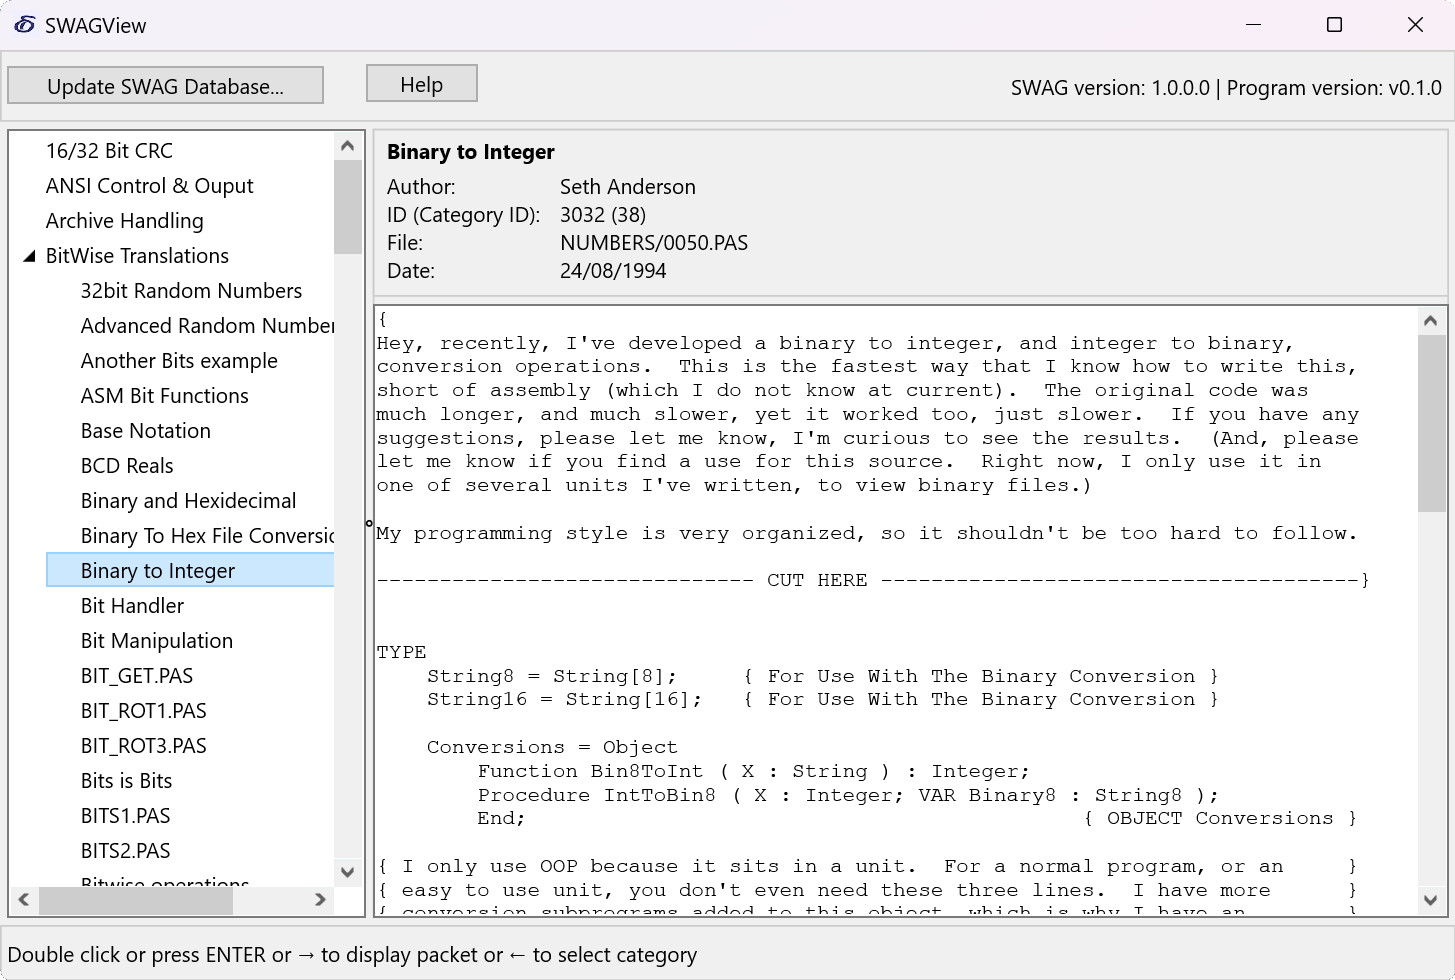
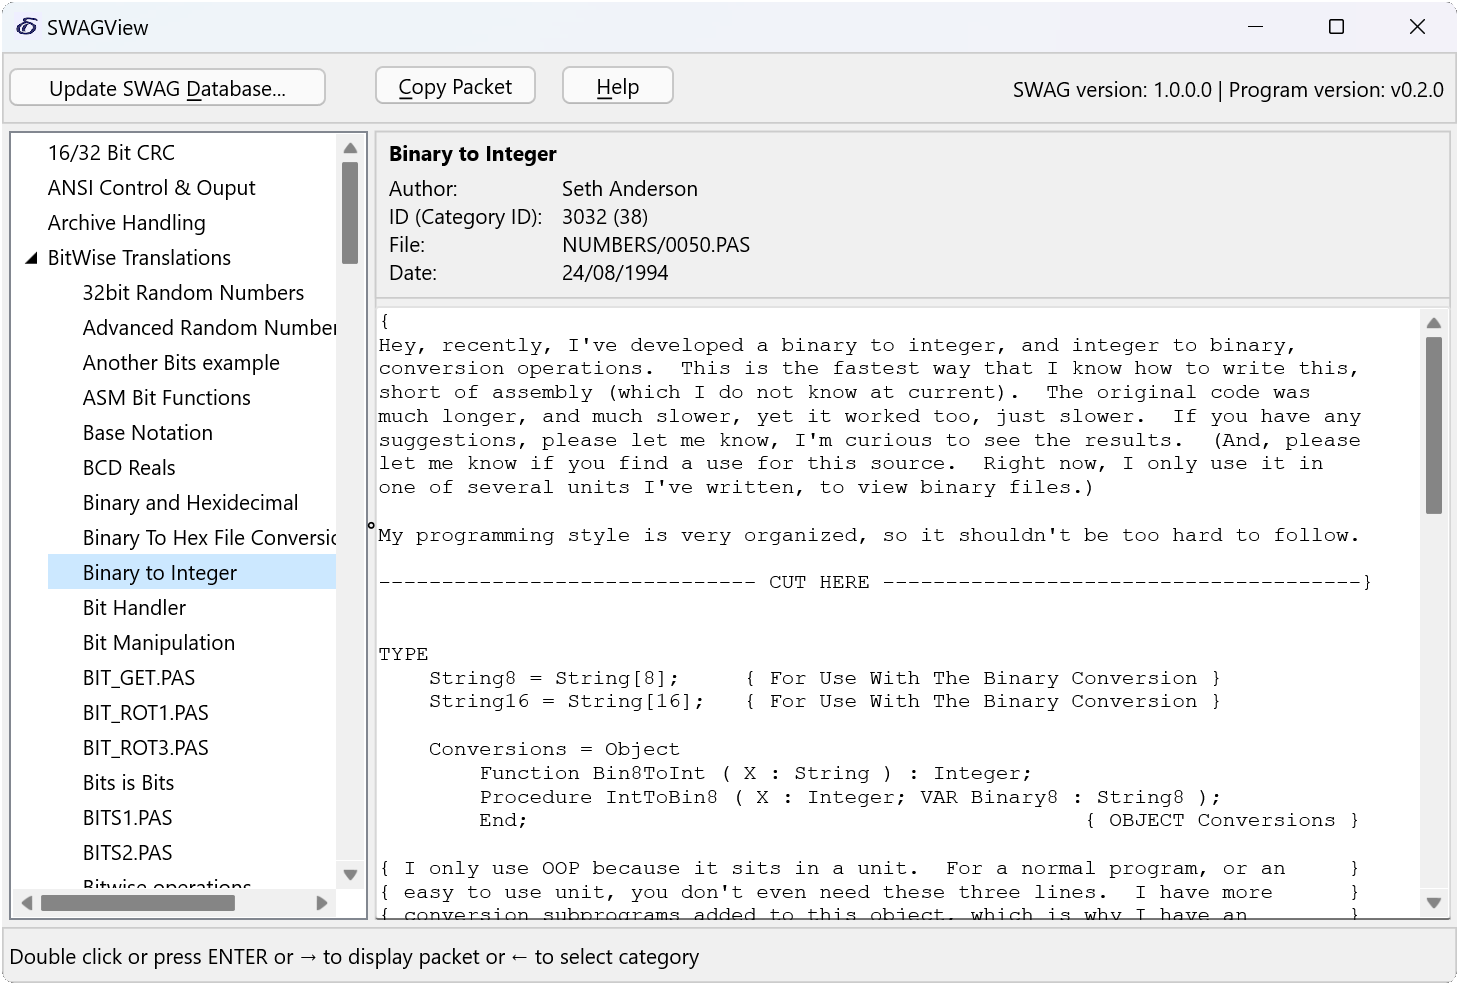
Update swagview page re release v0.2.0
Updated version number & release / copyright date.
Updated screenshot to show changed v0.2.0 UI.

diff --git a/_software/swagview.html b/_software/swagview.html
@@ -2,9 +2,9 @@
 layout: "programs-tplt"
 group: apps
 priority: 7.5
-version: "0.1.0"
+version: "0.2.0"
 os: "Windows 7 & later"
-release-date: "2023-07-12"
+release-date: "2024-08-24"
 title: "SWAGView"
 precis: "Basic viewer for the SWAG Pascal source code collection."
 summary: "Basic viewer application for the SWAG Pascal source code collection."
@@ -13,7 +13,7 @@ meta-desc: "32 bit & 64 bit Windows GUI program that loads and displays 'packets
 download-base-url: "https://github.com/ddabapps/swagview/releases/tag/v"
 repo-url: "https://github.com/ddabapps/swagview"
 want-header-buttons: true
-copyright-date: "2023"
+copyright-date: "2024"
 status: "current"
 ---
 <section class="panel panel-default">
